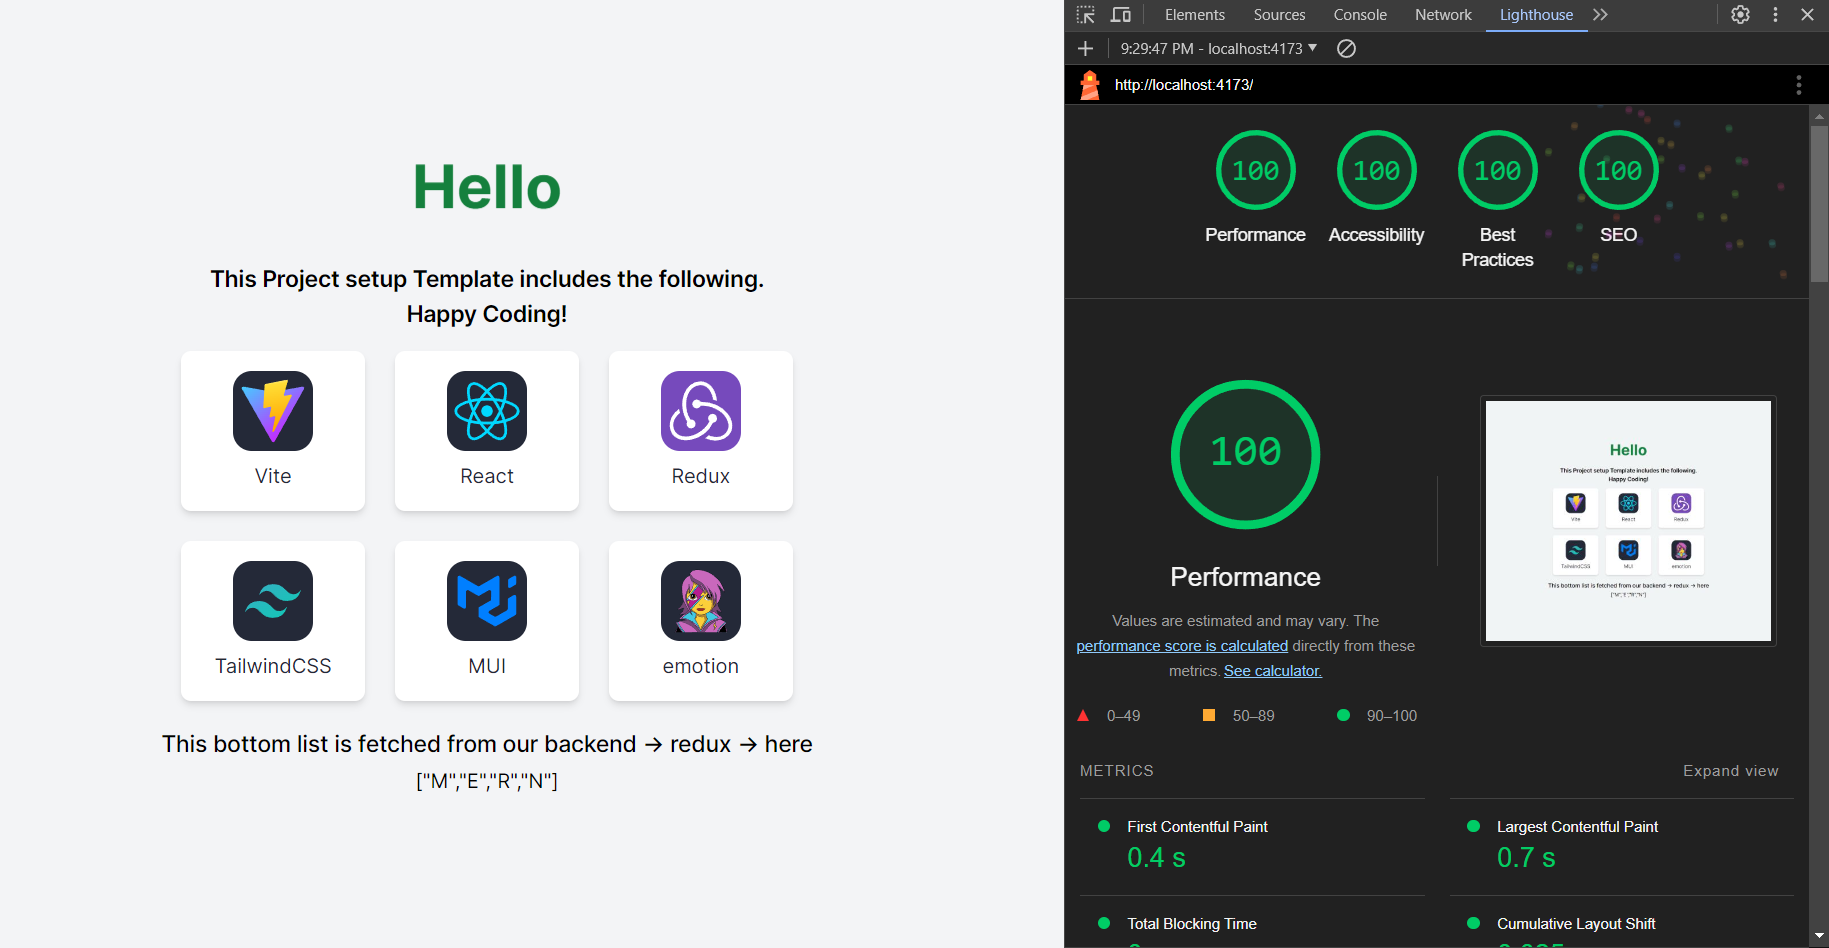
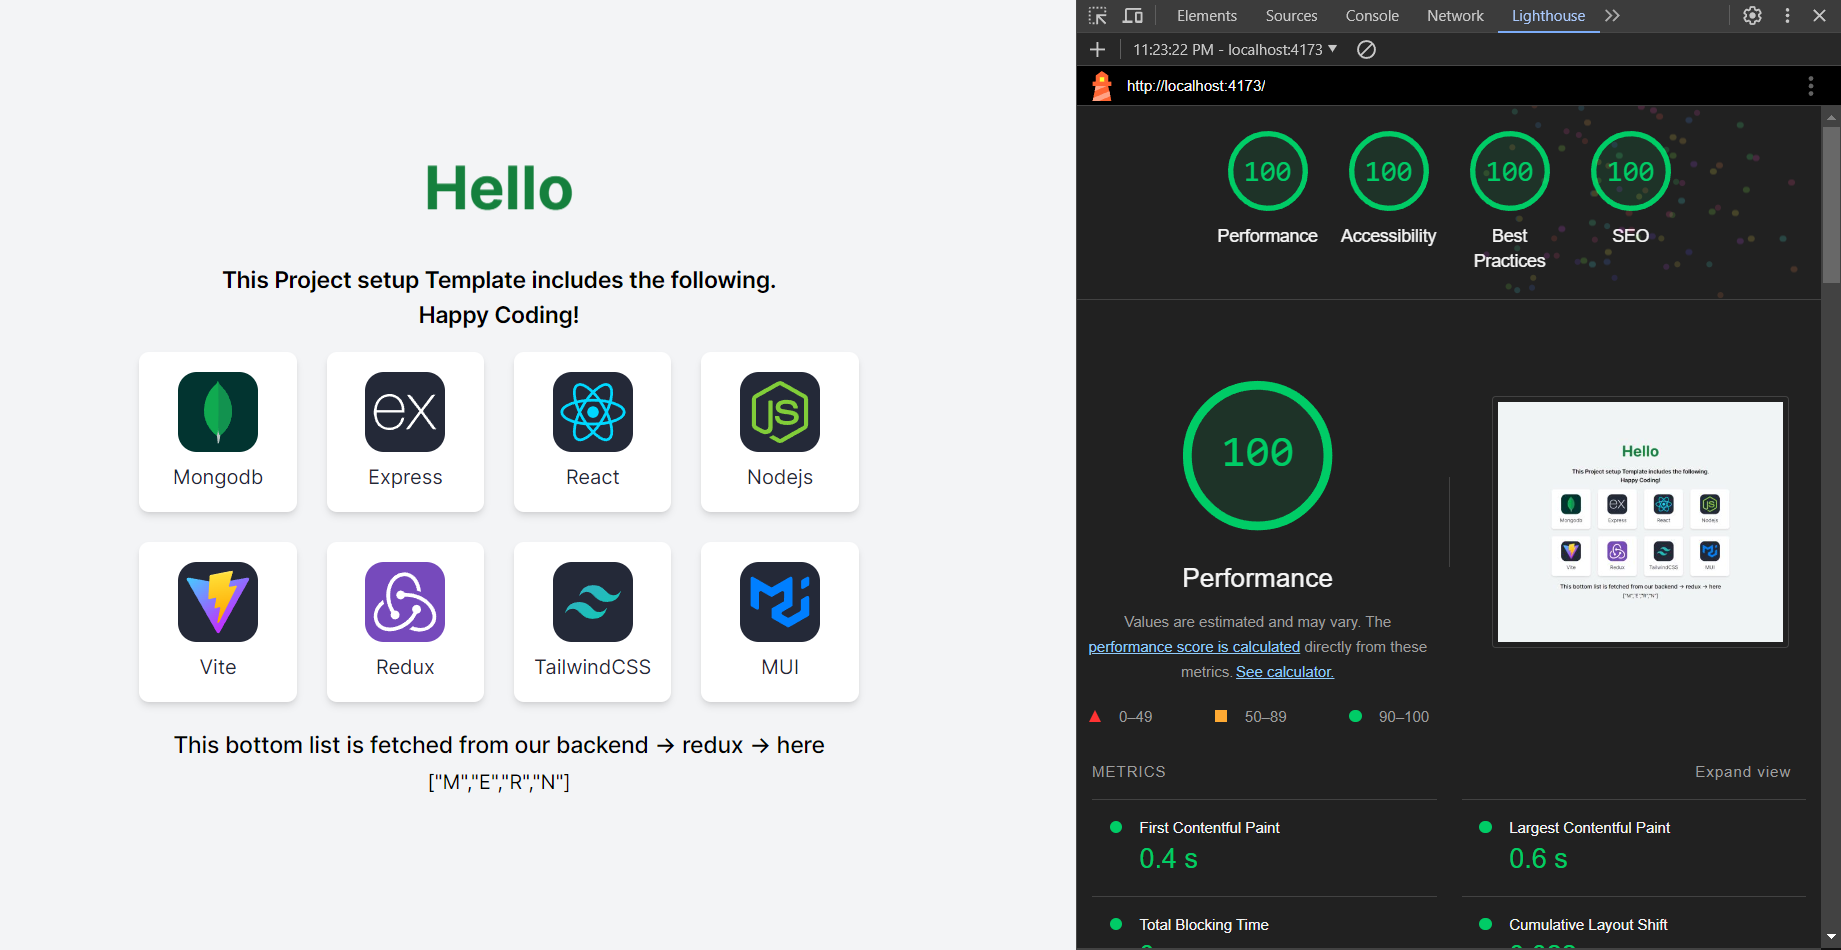
fixes

diff --git a/backend/server.js b/backend/server.js
@@ -5,26 +5,24 @@ import bodyParser from "body-parser";
 import morgan from "morgan";
 import path from "path";
 import dotenv from "dotenv";
-import colors from "colors";
 
 import router from "./router.js";
 
 const app = express();
 dotenv.config();
 
-// // this is our MongoDB database
-// try {
-//   const conn = await mongoose.connect(process.env.MONGO_URL, {
-//     useNewUrlParser: true,
-//     useUnifiedTopology: true,
-//     useFindAndModify: false,
-//     useCreateIndex: true,
-//   });
-//   console.log(`Connected to MongoDB ${conn.connection.host}`.blue);
-// } catch (error) {
-//   // console.log(`Error in MongoDB Connection: ${error}`.red);
-//   console.log(`Error in MongoDB Connection`.red);
-// }
+// this is our MongoDB database
+try {
+  const conn = await mongoose.connect(process.env.MONGO_URL, {
+    useNewUrlParser: true,
+    useUnifiedTopology: true,
+    useFindAndModify: false,
+    useCreateIndex: true,
+  });
+  console.log(`Connected to MongoDB ${conn.connection.host}`);
+} catch (error) {
+  console.log(`Error in MongoDB Connection`);
+}
 
 app.use(bodyParser.urlencoded({ extended: false }));
 app.use(bodyParser.json());

diff --git a/frontend/src/screens/Hello.jsx b/frontend/src/screens/Hello.jsx
@@ -4,12 +4,24 @@ import { loadusersListData } from "../redux/Action/action";
 
 const libraries = [
   {
-    name: "Vite",
-    id: "vite",
+    name: "Mongodb",
+    id: "mongodb",
+  },
+  {
+    name: "Express",
+    id: "express",
   },
   {
     name: "React",
     id: "react",
+  },
+  {
+    name: "Nodejs",
+    id: "nodejs",
+  },
+  {
+    name: "Vite",
+    id: "vite",
   },
   {
     name: "Redux",
@@ -22,10 +34,6 @@ const libraries = [
   {
     name: "MUI",
     id: "mui",
-  },
-  {
-    name: "emotion",
-    id: "emotion",
   },
 ];
 
@@ -48,7 +56,7 @@ export default function Hello() {
           This Project setup Template includes the following. <br />
           Happy Coding!
         </div>
-        <div className="grid grid-cols-2 md:grid-cols-3 gap-6 px-4">
+        <div className="grid grid-cols-3 md:grid-cols-4 gap-6 px-4">
           {libraries.map((library) => (
             <div
               key={library?.id}

diff --git a/backend/controllers/authController.js b/backend/controllers/authController.js
@@ -14,7 +14,7 @@ export const registerController = async (req, res) => {
     if (!address) return res.send({ error: "address is Required" });
 
     // check user
-    const existingUser = await userModel.findOne({ email: email });
+    const existingUser = await userModel.findOne({ email: { $eq: email } });
 
     // existing user
     if (existingUser) {

diff --git a/README.md b/README.md
@@ -1,4 +1,4 @@
-# React-Vite-Redux-Tailwind Template
+# MERN Stack Template
 
 
 <span align="center">
@@ -24,30 +24,94 @@
 
 ## Introduction
 
-This project relies on several external libraries and frameworks to enhance development efficiency, improve UI/UX, and streamline state management. Below is a curated list of dependencies with their respective explanations.
+mern-stack-template is a MERN Stack Template created to easily get started with developing a Full Stack Web App using the complete MERN Stack with major libraries show below.
 
 ![Project Stack](/frontend/public/ProjectStack.png)
 
-## Installation
+You can checkout chrome's lighthouse report while running the build! 😏
+
+## Getting Started
 
 To clone the project, Run the following command in your terminal:
 
 ```bash
 git clone https://github.com/Vishal-Katta/MERN-stack-template.git
+cd MERN-stack-template
 ```
 
-## Running the Server
+## Configuration
 
-To start the development server, you can use npm scripts. Run the following command in your terminal:
+> You will need latest version of `NodeJS` and `MongoDB` installed locally on your machine.
 
-```bash
-cd MERN-stack-template
-npm install
-npm start
+To configure this application for use of MongoDB, you should change the Environment variable in `.env` file with your database url.
+
+> *Quick Note:* This project is equiped with a basic API setup using Mongoose. It is expected that you will modify this API backend as necessary to suite your project. **DO NOT** count on and use the current API's USER SCHEMA as it is only meant as a placeholder and is far from a complete model.
+
+## Installation
+
+To get started with this project, you'll want to install the required dependencies and The following command installs both client and server packages including root directory package.json:
+
+```shell
+npm run setup
+```
+
+## Running the server
+
+**Starting the project**
+
+To **run whole project** ( backend and frontend ) you can use the following command:
+
+```shell
+npm run start
+```
+
+To **start just the backend** MonogoDB server and work on the API you can run:
+
+```shell
+npm run server
+```
+
+To **start just the frontend** and work on the UI, you can run:
+
+```shell
+npm run client
+```
+To run backend on build file of frontend, you can run:
+
+```shell
+npm run build:preview
 ```
 
 ## Dependencies
 A list of dependencies used in the project, along with brief explanations for each.
+
+### Backend Dependencies
+
+- ![Express](https://img.shields.io/badge/Express-_-000000?logo=express)  
+   Express is a fast, unopinionated, minimalist web framework for Node.js, used for building web applications and APIs.
+- ![Mongoose](https://img.shields.io/badge/Mongoose-_-47A248?logo=mongoose)  
+   Mongoose is an Object Data Modeling (ODM) library for MongoDB and Node.js, providing a higher-level abstraction for MongoDB operations.
+- ![jsonwebtoken](https://img.shields.io/badge/jsonwebtoken-_-orange)  
+   jsonwebtoken is an implementation of JSON Web Tokens (JWT) for authentication and authorization.
+- ![Nodemon](https://img.shields.io/badge/Nodemon-_-76D04B?logo=nodemon)  
+   Nodemon is a utility that monitors for changes in files and automatically restarts the server when any changes occur during development.
+- ![bcrypt](https://img.shields.io/badge/bcrypt-_-blue)  
+   bcrypt is a password-hashing function library used for hashing passwords before storing them securely.
+- ![cors](https://img.shields.io/badge/cors-_-green)  
+   CORS is a Node.js package for providing a Connect/Express middleware that can be used to enable CORS with various options.
+- ![body-parser](https://img.shields.io/badge/body--parser-_-blue)  
+   body-parser is a Node.js body parsing middleware, used for parsing incoming request bodies in a middleware before handling.
+- ![dotenv](https://img.shields.io/badge/dotenv-_-yellow)  
+   dotenv is a zero-dependency module that loads environment variables from a `.env` file into `process.env`.
+- ![morgan](https://img.shields.io/badge/morgan-_-blue)  
+   morgan is an HTTP request logger middleware for Node.js, used for logging requests to the server.
+- ![path](https://img.shields.io/badge/path-_-grey)  
+   path is a Node.js module that provides utilities for working with file and directory paths.
+- ![colors](https://img.shields.io/badge/colors-_-red)  
+   colors is a Node.js package for adding color to terminal text output.
+
+
+### Frontend Dependencies
 
 - ![React](https://img.shields.io/badge/React-_-61DAFB?logo=react)  
   React is a JavaScript library for building user interfaces, developed and maintained by Facebook.
